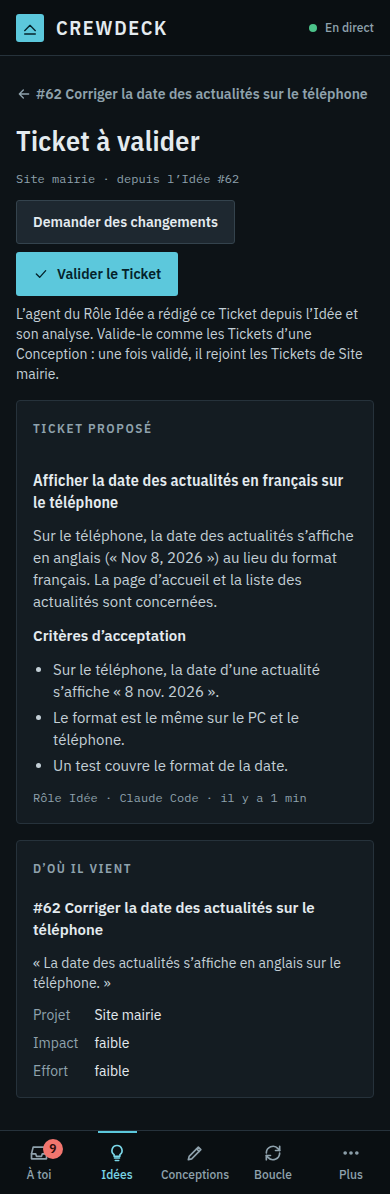
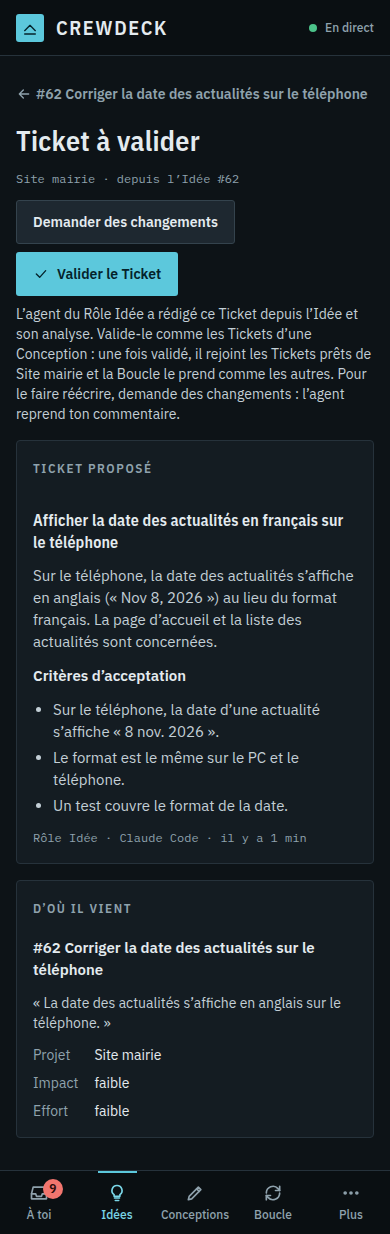
docs(product), design: écarts du dessin réglés (US-91, US-56, US-48, US-60…)

diff --git a/design/components.js b/design/components.js
@@ -462,8 +462,8 @@
   });
 
   // 05 Session (US-9) -------------------------------------------------------------
-  const SESSION = { active: ["go", "active"], waiting: ["caution", "attend ta réponse"], stopped: ["neutral", "arrêtée"] };
-  // <ui-session title="Concevoir · Agenda partagé" meta="Personal OS · Conception · Claude Code" state="active">messages… <ui-composer></ui-composer></ui-session>
+  const SESSION = { active: ["go", "active"], waiting: ["caution", "attend ta réponse"], stopped: ["neutral", "arrêtée"], interrupted: ["caution", "interrompue"] };
+  // <ui-session title="…" meta="…" state="active|waiting|stopped|interrupted" resume-disabled>messages… <ui-composer></ui-composer></ui-session>
   define("ui-session", (el) => {
     const state = a(el, "state", "active");
     const [tone, label] = SESSION[state];
@@ -476,7 +476,7 @@
           h("div", { class: "session-title" }, h("span", { class: `dot dot--${tone}${state === "active" ? " dot--pulse" : ""}` }), h("b", { text: a(el, "title") })),
           h("div", { class: "session-meta" }, h("span", { text: label }), ` · ${a(el, "meta")}`)),
         h("div", { class: "session-head-actions" },
-          state === "stopped" ? h("ui-button", { size: "sm", icon: "play", variant: "secondary" }, "Reprendre") : h("ui-button", { size: "sm", icon: "stop", variant: "secondary" }, "Arrêter"),
+          state === "stopped" || state === "interrupted" ? h("ui-button", { size: "sm", icon: "play", variant: "secondary", state: el.hasAttribute("resume-disabled") ? "disabled" : null }, "Reprendre") : h("ui-button", { size: "sm", icon: "stop", variant: "secondary" }, "Arrêter"),
           h("ui-icon-button", { icon: "expand", label: "Agrandir", class: "only-wide" }),
           h("ui-icon-button", { icon: "x", label: "Fermer", class: "only-wide" }))),
       h("div", { class: "session-crypto" }, icon("lock", "icon icon--sm"), "Chiffrée de bout en bout entre ton Runner et ce navigateur"),

diff --git a/design/screens/crewdeck/session-runner-hors-ligne.html b/design/screens/crewdeck/session-runner-hors-ligne.html
@@ -27,8 +27,6 @@
     .shell--with-panel .chips { flex-wrap: wrap; }
     .shell--with-panel .c-track .track { grid-auto-flow: row; grid-template-columns: repeat(2, minmax(0, 1fr)); }
   }
-  /* Runner hors ligne: nothing to stop or resume from here */
-  .session-head-actions > ui-button { display: none; }
 </style>
 </head>
 <body>
@@ -92,8 +90,8 @@
     Ton Runner ne répond plus depuis 14:02. Les sessions reprendront quand il sera de nouveau en ligne. Relance-le sur ta machine.
     <ui-button slot="actions" size="sm" icon="server">Voir le Runner</ui-button>
   </ui-banner>
-  <ui-session slot="panel" title="Concevoir · Agenda partagé" meta="Runner hors ligne · Personal OS · Conception · Claude Code" state="stopped">
-    <ui-empty icon="lock" title="Conversation sur ton Runner">Elle est chiffrée de bout en bout et n’est gardée que sur ton Runner : elle s’affiche de nouveau dès qu’il est en ligne.<ui-button slot="actions" icon="server">Voir le Runner</ui-button></ui-empty>
+  <ui-session slot="panel" title="Concevoir · Agenda partagé" meta="Runner hors ligne · Personal OS · Conception · Claude Code" state="interrupted" resume-disabled>
+    <ui-empty icon="lock" title="Conversation sur ton Runner">Elle est chiffrée de bout en bout et n’est gardée que sur ton Runner : elle s’affiche de nouveau dès qu’il est en ligne. La session est interrompue : « Reprendre » s’active quand ton Runner revient.<ui-button slot="actions" icon="server">Voir le Runner</ui-button></ui-empty>
     <ui-composer state="disabled" placeholder="Disponible quand ton Runner est en ligne"></ui-composer>
   </ui-session>
 </ui-app-shell>

diff --git a/design/screens/crewdeck/idee-ticket.html b/design/screens/crewdeck/idee-ticket.html
@@ -16,7 +16,7 @@
   <ui-page-header screen="Ticket à valider" back="#62 Corriger la date des actualités sur le téléphone" title="Ticket à valider" count="Site mairie · depuis l’Idée #62">
     <ui-button>Demander des changements</ui-button>
     <ui-button variant="primary" icon="check">Valider le Ticket</ui-button>
-    <span slot="sub">L’agent du Rôle Idée a rédigé ce Ticket depuis l’Idée et son analyse. Valide-le comme les Tickets d’une Conception : une fois validé, il rejoint les Tickets de Site mairie.</span>
+    <span slot="sub">L’agent du Rôle Idée a rédigé ce Ticket depuis l’Idée et son analyse. Valide-le comme les Tickets d’une Conception : une fois validé, il rejoint les Tickets prêts de Site mairie et la Boucle le prend comme les autres. Pour le faire réécrire, demande des changements : l’agent reprend ton commentaire.</span>
   </ui-page-header>
   <div class="layout">
     <ui-card title="Ticket proposé" label="Ticket à valider / Ticket">

diff --git a/design/screens/crewdeck/idee-rejetee.html b/design/screens/crewdeck/idee-rejetee.html
@@ -18,7 +18,7 @@
 <ui-app-shell screen="Une Idée" current="idees" decisions="9" ideas="4" designs="2" loops="2">
   <ui-page-header screen="Une Idée" back="Idées" title="Afficher la météo sur l’accueil" count="#57 · Rejetée">
     <ui-button variant="primary" icon="refresh">Remettre à trier</ui-button>
-    <span slot="sub">Rejetée par toi il y a 2 j. Remise à trier, elle revient dans « À trier ».</span>
+    <span slot="sub">Rejetée par toi il y a 2 j. Remise à trier, elle revient « Analysée », avec son analyse d’avant, que tu peux relancer.</span>
   </ui-page-header>
   <div class="layout">
     <div class="layout-main">

diff --git a/design/screens/crewdeck/idees-analyse-echouee.html b/design/screens/crewdeck/idees-analyse-echouee.html
@@ -64,6 +64,12 @@ ui-idea-row.failed .row-actions { grid-column: 3 / -1; margin-top: var(--space-2
         <div class="cluster">
           <ui-button size="sm" variant="primary" icon="refresh">Relancer l’analyse</ui-button>
         </div>
+        <span class="text-sm">Tu peux aussi la trier sans analyse :</span>
+        <div class="cluster">
+          <ui-button size="sm">Retenir</ui-button>
+          <ui-button size="sm">Fusionner…</ui-button>
+          <ui-button size="sm" variant="ghost">Rejeter</ui-button>
+        </div>
       </ui-card>
     </div>
   </div>

diff --git a/docs/product/prd.md b/docs/product/prd.md
@@ -71,8 +71,8 @@ technical design's.
 - **US-1** (MVP) As a Pilote, I want to sign up with my GitHub account, so that I do not create yet another password.
 - **US-2** (MVP) As a Pilote, I want to install the Runner on Linux, macOS or Windows (WSL) with one command and link it to my account, a failed link saying why and giving the command again, so that agents run on my machine with my own Comptes IA.
 - **US-3** (MVP) As a Pilote, I want to pick the GitHub repositories the product follows, so that each one is prepared for the Process (labels, branches, configuration) without manual setup.
-- **US-4** (MVP) As a Pilote, I want to see for each Projet what is still missing to run the Process (the Runner linked, a usable Moteur for each Rôle, the labels, the integration and release branches, the Process's settings in the repository, and for an existing repository its approved inventory), the product fixing in the repository what it can on one click of mine, so that I know what to fix before the agents start.
-- **US-68** (MVP) As a Pilote, I want to bring in a repository that already has code, the product drafting its glossary, its technical choices and an inventory, which a Décision in « À toi » asks me to approve at once or to send back with my changes, so that an existing project gets the same Process as a new one.
+- **US-4** (MVP) As a Pilote, I want to see for each Projet what is still missing to run the Process (the Runner linked, a usable Moteur for each Rôle, the labels, the integration and release branches, the Process's settings in the repository, and for an existing repository its approved inventory), the product fixing in the repository what it can on one click of mine, each fix visible on GitHub, so that I know what to fix before the agents start.
+- **US-68** (MVP) As a Pilote, I want to bring in a repository that already has code, the product drafting its glossary, its technical choices and an inventory, which a Décision in « À toi » asks me to approve at once or to send back with my changes, what I approve being written to the repository visibly on GitHub, so that an existing project gets the same Process as a new one.
 - **US-70** (next) As a Pilote, I want to install the Runner on a server of mine with no screen (a VPS, a home server), so that agents work when my PC is off.
 - **US-80** (next) As a Visiteur, I want a demonstration Projet already filled (Idées, a PRD, a Boucle at work, Décisions), so that I understand Crewdeck in five minutes without connecting my repositories.
 - **US-38** (MVP) As a Pilote, I want to connect my Comptes IA on my Runner (my Claude or Codex sign-in where the provider allows it, else my API key) and see which Moteurs and models I can really use, and why one is not (connexion requise, quota atteint, indisponible avec cet abonnement), getting started needing at least one usable Moteur, so that I never pick an agent that cannot run.
@@ -83,13 +83,15 @@ triage it.
 - **US-5** (MVP) As a Pilote, I want to note an Idée in one sentence from the PC or the phone, choosing its Projet if I want to, so that nothing is lost.
 - **US-6** (MVP) As a Pilote, I want each Idée analysed (summary, target Projet, which I can correct, impact, effort, possible duplicates), so that I triage in seconds.
 - **US-7** (MVP) As a Pilote, I want to retain, merge or reject an Idée, so that only what is worth it goes to Conception.
-- **US-56** (MVP) As a Pilote, I want to turn an Idée straight into a Ticket, without a Conception, when it is a small fix, the agent of the Rôle Idée drafting the Ticket from the Idée and its analysis and I validating it like the Tickets of a Conception, so that small things do not wait for a PRD.
+- **US-56** (MVP) As a Pilote, I want to turn an Idée straight into a Ticket, without a Conception, when it is a small fix, the agent of the Rôle Idée drafting the Ticket from the Idée and its analysis and I validating it like the Tickets of a Conception, or sending it back with a comment the agent takes up, the validated Ticket joining the ready Tickets of its Projet, so that small things do not wait for a PRD.
 - **US-57** (MVP) As a Pilote, I want to dictate an Idée or a message to an agent, on the PC or the phone, the transcript filling the field so that I correct it before sending, so that I capture and answer without typing.
-- **US-91** (MVP) As a Pilote, I want to put a merged or rejected Idée back to triage, so that a wrong click is never final.
+- **US-91** (MVP) As a Pilote, I want to put a merged or rejected Idée back to triage, keeping its analysis, which I can run again, so that a wrong click is never final.
 
 ### Conception
 A retained Idée goes through product design, mockups and technical design,
-each one a conversation with an agent, each one approved by the Pilote.
+each one a conversation with an agent, each one approved by the Pilote. The
+cross review (an Étape optionnelle) reads the PRD and the technical design,
+each just before the Pilote approves it.
 - **US-8** (MVP) As a Pilote, I want to start the Conception of a retained Idée in one click, so that an agent runs the product design with me.
 - **US-9** (MVP) As a Pilote, I want to drive an agent session from the product (read it as it streams, write to it, answer its questions and permission requests, stop and resume it), so that I never need a terminal to talk to an agent.
 - **US-10** (MVP) As a Pilote, I want to follow each Conception from the Idée to its Tickets (PRD, mockups, technical design), an Étape optionnelle turned off for its Projet shown as such, so that I know where each one stands.
@@ -125,7 +127,7 @@ when they are away.
 What the Pilote sees is the state of now.
 - **US-20** (MVP) As a Pilote, I want a change on GitHub or from an agent on screen in under 2 s, without reloading, so that I can trust what I see.
 - **US-21** (MVP) As a Pilote, I want to see « resynchronisation… » after a lost connection until the state is sure again, with the Actions sensibles unavailable until then, so that I never act on a stale state.
-- **US-60** (MVP) As a Pilote, I want my conversations, code and diffs to travel encrypted end to end between my Runner and my browser, the product's servers keeping only the state of the Process, a session showing only its title and state while the Runner is offline, so that my code never sits on someone else's server.
+- **US-60** (MVP) As a Pilote, I want my conversations, code and diffs to travel encrypted end to end between my Runner and my browser, the product's servers keeping only the state of the Process, a session showing only its title and state while the Runner is offline, interrupted until I resume it once the Runner is back, so that my code never sits on someone else's server.
 
 ### Skins
 The Pilote chooses how the product looks, in the Marketplace or with a
@@ -149,7 +151,7 @@ replacing Composants.
 Each Étape of the Process is done by a Skill: the official one by default,
 later the Pilote's own; the product checks every output against the
 Étape's Contrat.
-- **US-48** (MVP) As a Pilote, I want the output of every Étape (an analysed Idée, a PRD, mockups, a technical design, Tickets, a PR, a review) checked against its Contrat, and a Décision in « À toi » to run it again when it is incomplete or fails, so that no Étape passes half done.
+- **US-48** (MVP) As a Pilote, I want the output of every Étape (an analysed Idée, a PRD, mockups, a technical design, Tickets, a PR, a review) checked against its Contrat, and a Décision in « À toi » to run it again when it is incomplete or fails, an Idée whose analysis failed staying open to triage, so that no Étape passes half done.
 
 ### Pilotage and reports
 What the Pilote and their clients see of the work, beyond the agents. The
@@ -158,7 +160,8 @@ it led to; the Boucle's success rate is the share of the Tickets it took
 that it merged without the Pilote stepping in; the share of blocked Tickets
 counts those blocked at least once among the Tickets taken; the cost per
 Ticket is the spend for an API key, and the share of the window used for a
-subscription.
+subscription. Spends are estimates in euros, converted from the provider's
+bill.
 - **US-61** (MVP) As a Pilote, I want the statistics of each Projet and of all of them (lead time from Idée to merge, Boucle success rate, share of blocked Tickets, cost per Ticket), so that I know what the agents really bring.
 - **US-63** (MVP) As a Pilote, I want the tree of the open Tickets of a Projet, with what blocks what, next to its planning, so that I see the critical path at a glance.
 - **US-65** (next) As a Pilote, I want to paste a client's feedback and get it split into Idées, each analysed and linked to that client, so that no request is lost.

diff --git a/design/DESIGN.md b/design/DESIGN.md
@@ -283,7 +283,7 @@ Each is a custom element `ui-<name>`; its root carries `data-name`.
   `ui-timeline-row` (`label`, `start`, `span`, `tone`, `meta`).
 
 **Session (US-9)**
-- **Session** (`Session/Default`): `title`, `meta`, `state="active|waiting|stopped"`; children messages, then `ui-composer`.
+- **Session** (`Session/Default`): `title`, `meta`, `state="active|waiting|stopped|interrupted"`, `resume-disabled` (« Reprendre » disabled, e.g. while the Runner is offline); children messages, then `ui-composer`.
 - **Message** (`Message/Agent`, `Message/Pilote`): `from`.
 - **ToolCall** (`ToolCall/Default`): `tool`, `target`, `detail`.
 - **Question** (`Question/Default`): `title`; children `ui-option`
